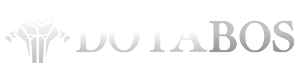
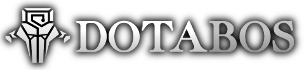
New Images, Better Mobile Fit
Added new images, made content span whole screen in a mobile state, and made side images resize properly in a mobile state.

diff --git a/index.html b/index.html
@@ -10,6 +10,7 @@
     <link rel="stylesheet" href="bootstrap-4.0.0-alpha.6-dist/css/bootstrap-grid.min.css">
     <link rel="stylesheet" href="bootstrap-4.0.0-alpha.6-dist/css/bootstrap.min.css">
     <link rel="stylesheet" href="style.css">
+    
 </head>
 
 <body class="page-body">
@@ -22,21 +23,21 @@
             <div class="collapse navbar-collapse" id="navbarUtils">
                 <ul class="navbar-nav ml-auto justify-content-end navbar-right">
                     <li class="nav-item active">
-                        <a class="nav-link" href="">Blog<span class="sr-only">(current)</span></a>
+                        <a class="nav-link" href="">Heroes<span class="sr-only">(current)</span></a>
                     </li>
                     <li class="nav-item">
-                        <a class="nav-link" href="">News</a>
+                        <a class="nav-link" href="">Guides</a>
+                    </li>
+                    <li class="nav-item">
+                        <a class="nav-link" href="">Articles</a>
                     </li>
                     <li class="nav-item">
                         <a class="nav-link" href="">About</a>
                     </li>
-                    <li class="nav-item">
-                        <a class="nav-link" href="">Contact</a>
-                    </li>
                 </ul>
             </div>
         </nav>
-        <div class="row section1">
+        <div class="row section1 justify-content-center">
             <div class="col-md section1BigBox">
                 <div class="contentContainer">
                     <div id="carouselExampleIndicators" class="carousel slide" data-ride="carousel">
@@ -56,18 +57,18 @@
                             </div>
                             <div class="carousel-item">
                                 <picture class="carouselImgDynamic">
-                                    <source srcset="assets/spectre1000x350.jpg" media="(min-width: 1200px)">
-                                    <source srcset="assets/spectre1375x485.jpg" media="(min-width: 768px)">
-                                    <source srcset="assets/spectre768x415.jpg" media="(min-width: 375px)">
-                                    <img srcset="assets/spectre380x485.jpg" alt="responsive image" class="d-block img-fluid">
+                                    <source srcset="assets/puck1000x350.jpg" media="(min-width: 1200px)">
+                                    <source srcset="assets/puck1375x485.jpg" media="(min-width: 768px)">
+                                    <source srcset="assets/puck768x415.jpg" media="(min-width: 375px)">
+                                    <img srcset="assets/puck380x485.jpg" alt="responsive image" class="d-block img-fluid">
                                 </picture>
                             </div>
                             <div class="carousel-item">
                                 <picture class="carouselImgDynamic">
-                                    <source srcset="assets/spectre1000x350.jpg" media="(min-width: 1200px)">
-                                    <source srcset="assets/spectre1375x485.jpg" media="(min-width: 768px)">
-                                    <source srcset="assets/spectre768x415.jpg" media="(min-width: 375px)">
-                                    <img srcset="assets/spectre380x485.jpg" alt="responsive image" class="d-block img-fluid">
+                                    <source srcset="assets/luna1000x350.jpg" media="(min-width: 1200px)">
+                                    <source srcset="assets/luna1375x485.jpg" media="(min-width: 768px)">
+                                    <source srcset="assets/luna768x415.jpg" media="(min-width: 375px)">
+                                    <img srcset="assets/luna380x485.jpg" alt="responsive image" class="d-block img-fluid">
                                 </picture>
                             </div>
                         </div>
@@ -84,16 +85,19 @@
 
             </div>
             <div class="col-xl-3 section1SmallBox">
-                <div class="row section1SmallContentTop">
-                    <div class="contentContainer">
-                        <img class="section1TopImg" src="assets/section1top.jpg">
+                <div class="row section1SmallContentTop justify-content-center">
+                    <div class="contentContainer s1leftContainer">
+                        <img class="section1TopImg section1Left" src="assets/Team-Liquid.jpg">
                     </div>
-                    <div class="contentContainer smHidden">
-                        <img class="section1TopImg smHidden" src="assets/section1top.jpg">
+                    <div class="contentContainer s1rightContainer xlHidden">
+                        <img class="section1TopImg section1right xlHidden" src="assets/dendi.jpg">
                     </div>
 
                 </div>
                 <div class="row section1SmallContentBottom">
+                    <div class="contentContainer">
+                        <img class="section1BotImg" src="assets/dendi.jpg">
+                    </div>
                 </div>
             </div>
         </div>

diff --git a/style.css b/style.css
@@ -1,5 +1,6 @@
 /*DEFAULTS*/
 
+@import "compass/css3";
 body.page-body {
     background-image: url("assets/background-image.jpg");
     background-repeat: no-repeat;
@@ -9,11 +10,6 @@ body.page-body {
     display: block;
 }
 
-@media (min-width: 768px) {
-    .smHidden {
-        display: none;
-    }
-}
 
 /*NAVBAR*/
 
@@ -92,7 +88,8 @@ body.page-body {
     color: aliceblue;
 }
 
-/*MOBILE*/
+
+/*NAVBAR MOBILE*/
 
 @media (max-width: 1375px) {
     .navbar-right li {
@@ -145,6 +142,7 @@ body.page-body {
     }
 }
 
+
 /*CONTENT*/
 
 .container-content {
@@ -154,14 +152,19 @@ body.page-body {
 
 .section1 {
     margin: 20px 0px 10px 0px;
-    padding: 10px;
+    padding: 10px 0px 10px 0px;
     border: 1px solid black;
     background-color: rgba(0, 0, 0, 0.6);
 }
 
-.carousel-item .img-fluid {
-    width: 100%;
-    height: 100%;
+.section1BigBox {
+    padding: 0px;
+}
+
+.section1SmallBox {
+    min-width: 305px;
+    display: block;
+    justify-content: center;
 }
 
 .section1SmallContentTop {
@@ -169,27 +172,78 @@ body.page-body {
     height: auto;
 }
 
-.section1SmallContentBottom,
-.section1SmallContentTop {
-
-    margin: 0;
+.section1SmallContentBottom {
+    max-width: 100%;
+    max-height: 48%;
+    position: absolute;
+    bottom: 0px;
+    right: 20px;
+    display: none;
 }
 
 .contentContainer {
     overflow: hidden;
     border: 1px solid black;
-    box-shadow: 
-        2px 2px 0px #3a3a3a,
-        -2px -2px 0px #3a3a3a,
-        -2px 2px 0px #3a3a3a,
-        2px -2px 0px #3a3a3a;
+    box-shadow: 2px 2px 0px #3a3a3a, -2px -2px 0px #3a3a3a, -2px 2px 0px #3a3a3a, 2px -2px 0px #3a3a3a;
+}
+
+.section1TopImg,
+.section1BotImg {
+    margin-left: 50%;
+    transform: translateX(-50%);
+}
+
+@media (min-width: 1200px) {
+    .xlHidden {
+        display: none;
+    }
+    .section1 {
+        padding: 10px;
+    }
+    .section1BigBox {
+        padding: 0px 15px 0px 15px;
+    }
+    .section1SmallContentTop {
+        max-width: 100%;
+        max-height: 48%;
+        position: absolute;
+        top: 0px;
+        right: 20px;
+    }
+    .section1SmallContentBottom {
+        display: flex;
+    }
+    
+    .section1TopImg,
+    .section1BotImg {
+        width: 400px;   
+    }
 }
 
 /*MOBILE CONTENT*/
 
-@media (max-width: 768px) {
-    .section1SmallContentBottom,
+@media (max-width: 1199px) {
+    .section1SmallBox {
+        padding: 0px;
+    }
     .section1SmallContentTop {
-        margin-top: 50px;
+        width: 100%;
+        margin: 10px 0px;
+        max-height: 200px;
+    }
+    .s1rightContainer,
+    .s1leftContainer {
+        max-width: 50%;
+    }
+}
+
+@media (max-width: 544px) {
+    .s1leftContainer,
+    .s1rightContainer {
+        min-width: 100%;
+        max-height: 200px;
+    }
+    .s1rightContainer {
+        margin-top: 10px;
     }
 }
